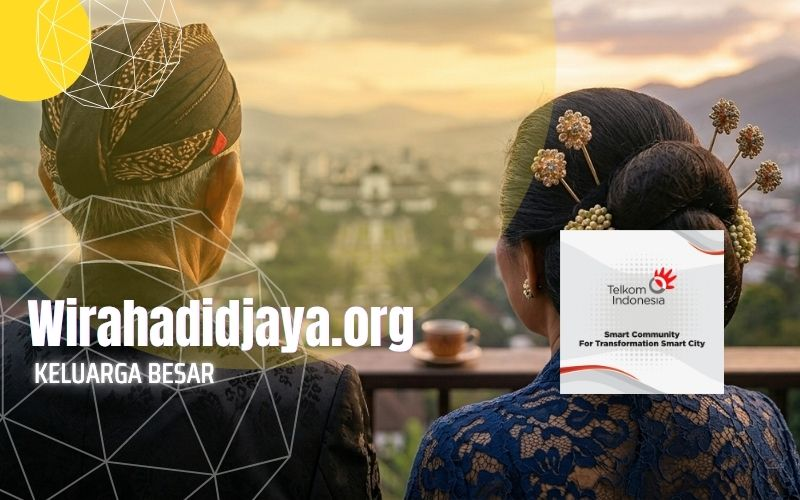
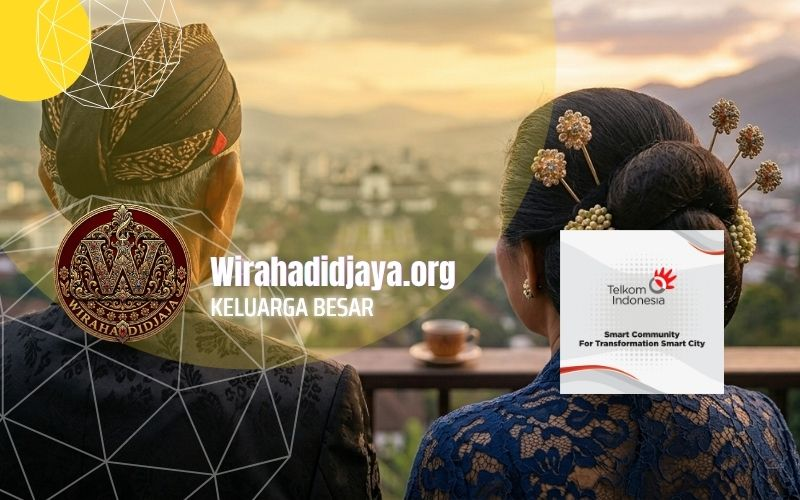
pastikan hero di dashboard selalu menampilkan image /public/banner_wirah

Changed region(s): [[0.0312, 0.39, 0.5938, 0.78]]

diff --git a/src/app/page.tsx b/src/app/page.tsx
@@ -4,7 +4,6 @@ import { Badge } from "@/components/ui/badge"
 import { Megaphone, Newspaper, Heart, ArrowRight } from "lucide-react"
 import { Button } from "@/components/ui/button"
 import Image from "next/image"
-import { PlaceHolderImages } from "@/lib/placeholder-images"
 
 const newsItems = [
   {
@@ -37,21 +36,18 @@ const newsItems = [
 ]
 
 export default function Home() {
-  const bandungHero = PlaceHolderImages.find(img => img.id === 'bandung-landmark');
-
   return (
     <PageWrapper>
       <div className="space-y-10 animate-in fade-in duration-500">
         
-        {/* Main Hero Banner - Gedung Sate Bandung */}
-        <div className="relative w-full h-[350px] md:h-[500px] rounded-[2rem] overflow-hidden shadow-2xl border-4 border-white">
+        {/* Main Hero Banner - Banner Wirahadidjaja */}
+        <div className="relative w-full h-[350px] md:h-[500px] rounded-[2rem] overflow-hidden shadow-2xl border-4 border-white bg-muted">
           <Image 
-            src={bandungHero?.imageUrl || "https://picsum.photos/seed/bandung/1200/800"} 
-            alt="Gedung Sate Jawa Barat" 
+            src="/banner_wirahadidjaja.jpg" 
+            alt="Banner Keluarga Besar Wirahadidjaja" 
             fill 
             className="object-cover"
             priority
-            data-ai-hint={bandungHero?.imageHint || "bandung city"}
           />
         </div>
 
